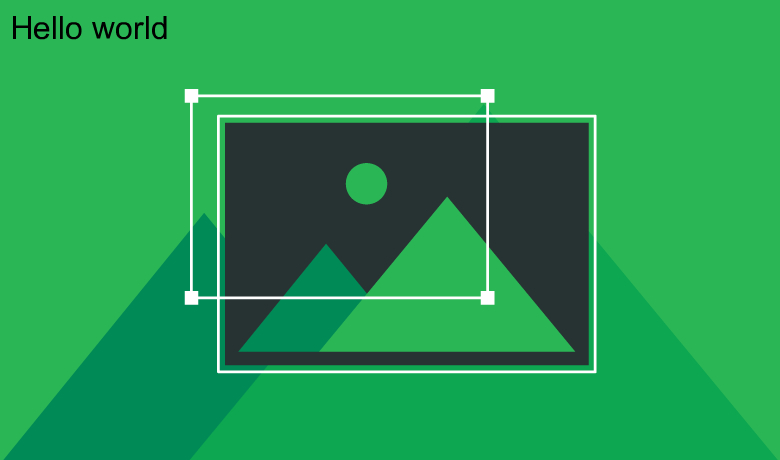
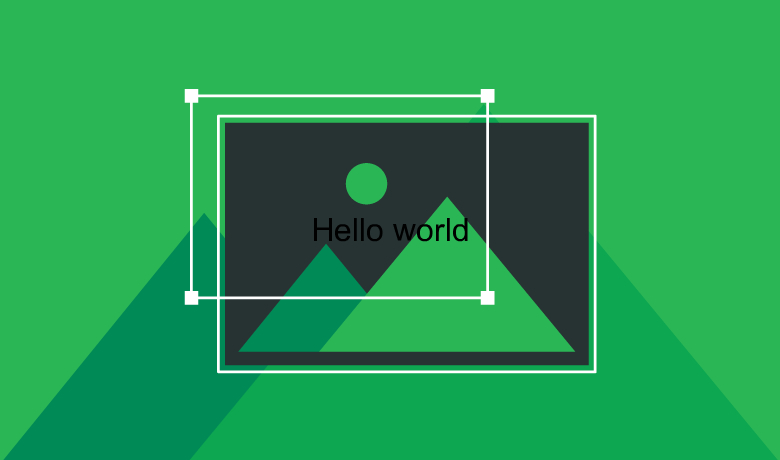
Add addImageWatermarkToImage

Changed region(s): [[0.0, 0.0304, 0.2154, 0.0913], [0.4, 0.4565, 0.6154, 0.5478]]

diff --git a/app.js b/app.js
@@ -3,7 +3,13 @@ const Jimp = require('jimp');
 const addTextWatermarkToImage = async function (inputFile, outputFile, text) {
   const image = await Jimp.read(inputFile);
   const font = await Jimp.loadFont(Jimp.FONT_SANS_32_BLACK);
-  image.print(font, 10, 10, text);
+  const textData = {
+    text,
+    alignmentX: Jimp.HORIZONTAL_ALIGN_CENTER,
+    alignmentY: Jimp.VERTICAL_ALIGN_MIDDLE,
+  };
+
+  image.print(font, 0, 0, textData, image.getWidth(), image.getHeight());
   await image.quality(100).writeAsync(outputFile);
 };
 
@@ -11,4 +17,26 @@ addTextWatermarkToImage(
   './test.jpg',
   './test-with-watermark.jpg',
   'Hello world'
+);
+
+const addImageWatermarkToImage = async function (
+  inputFile,
+  outputFile,
+  watermarkFile
+) {
+  const image = await Jimp.read(inputFile);
+  const watermark = await Jimp.read(watermarkFile);
+  const x = image.getWidth() / 2 - watermark.getWidth() / 2;
+  const y = image.getHeight() / 2 - watermark.getHeight() / 2;
+
+  image.composite(watermark, x, y, {
+    mode: Jimp.BLEND_SOURCE_OVER,
+    opacitySource: 0.5,
+  });
+  await image.quality(100).writeAsync(outputFile);
+};
+addImageWatermarkToImage(
+  './test.jpg',
+  './test-with-watermark2.jpg',
+  './logo.png'
 );
